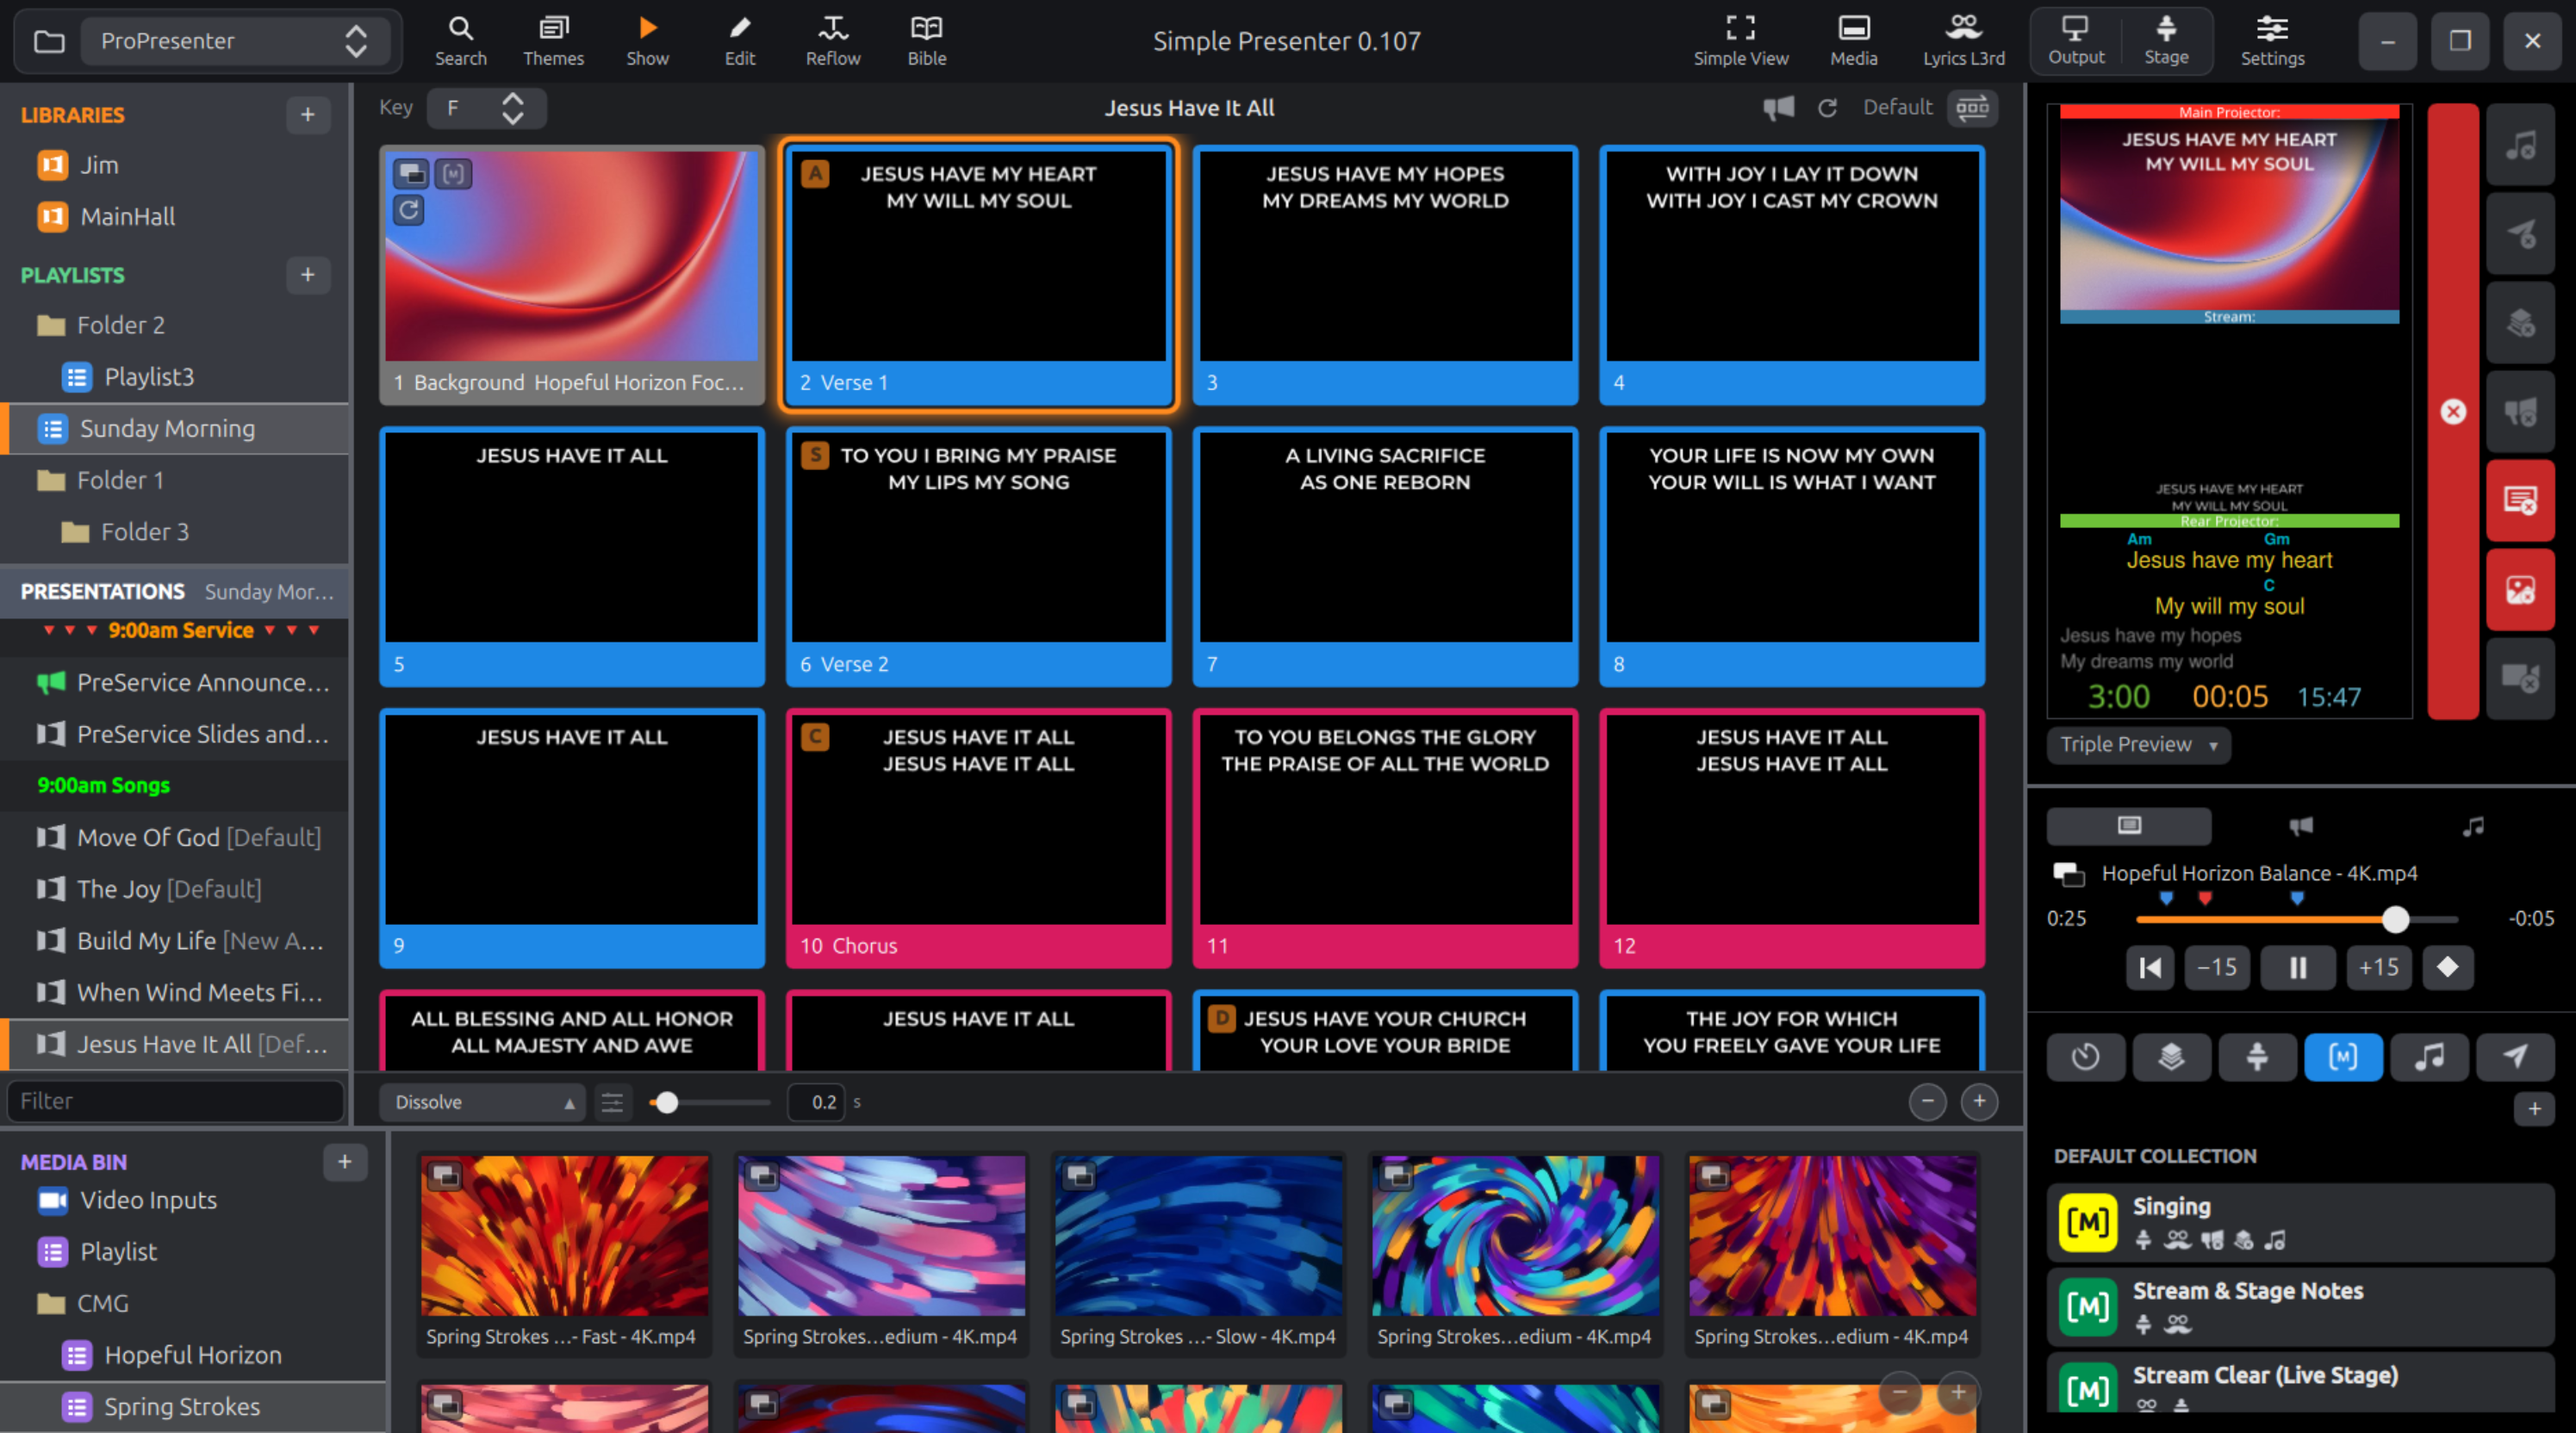
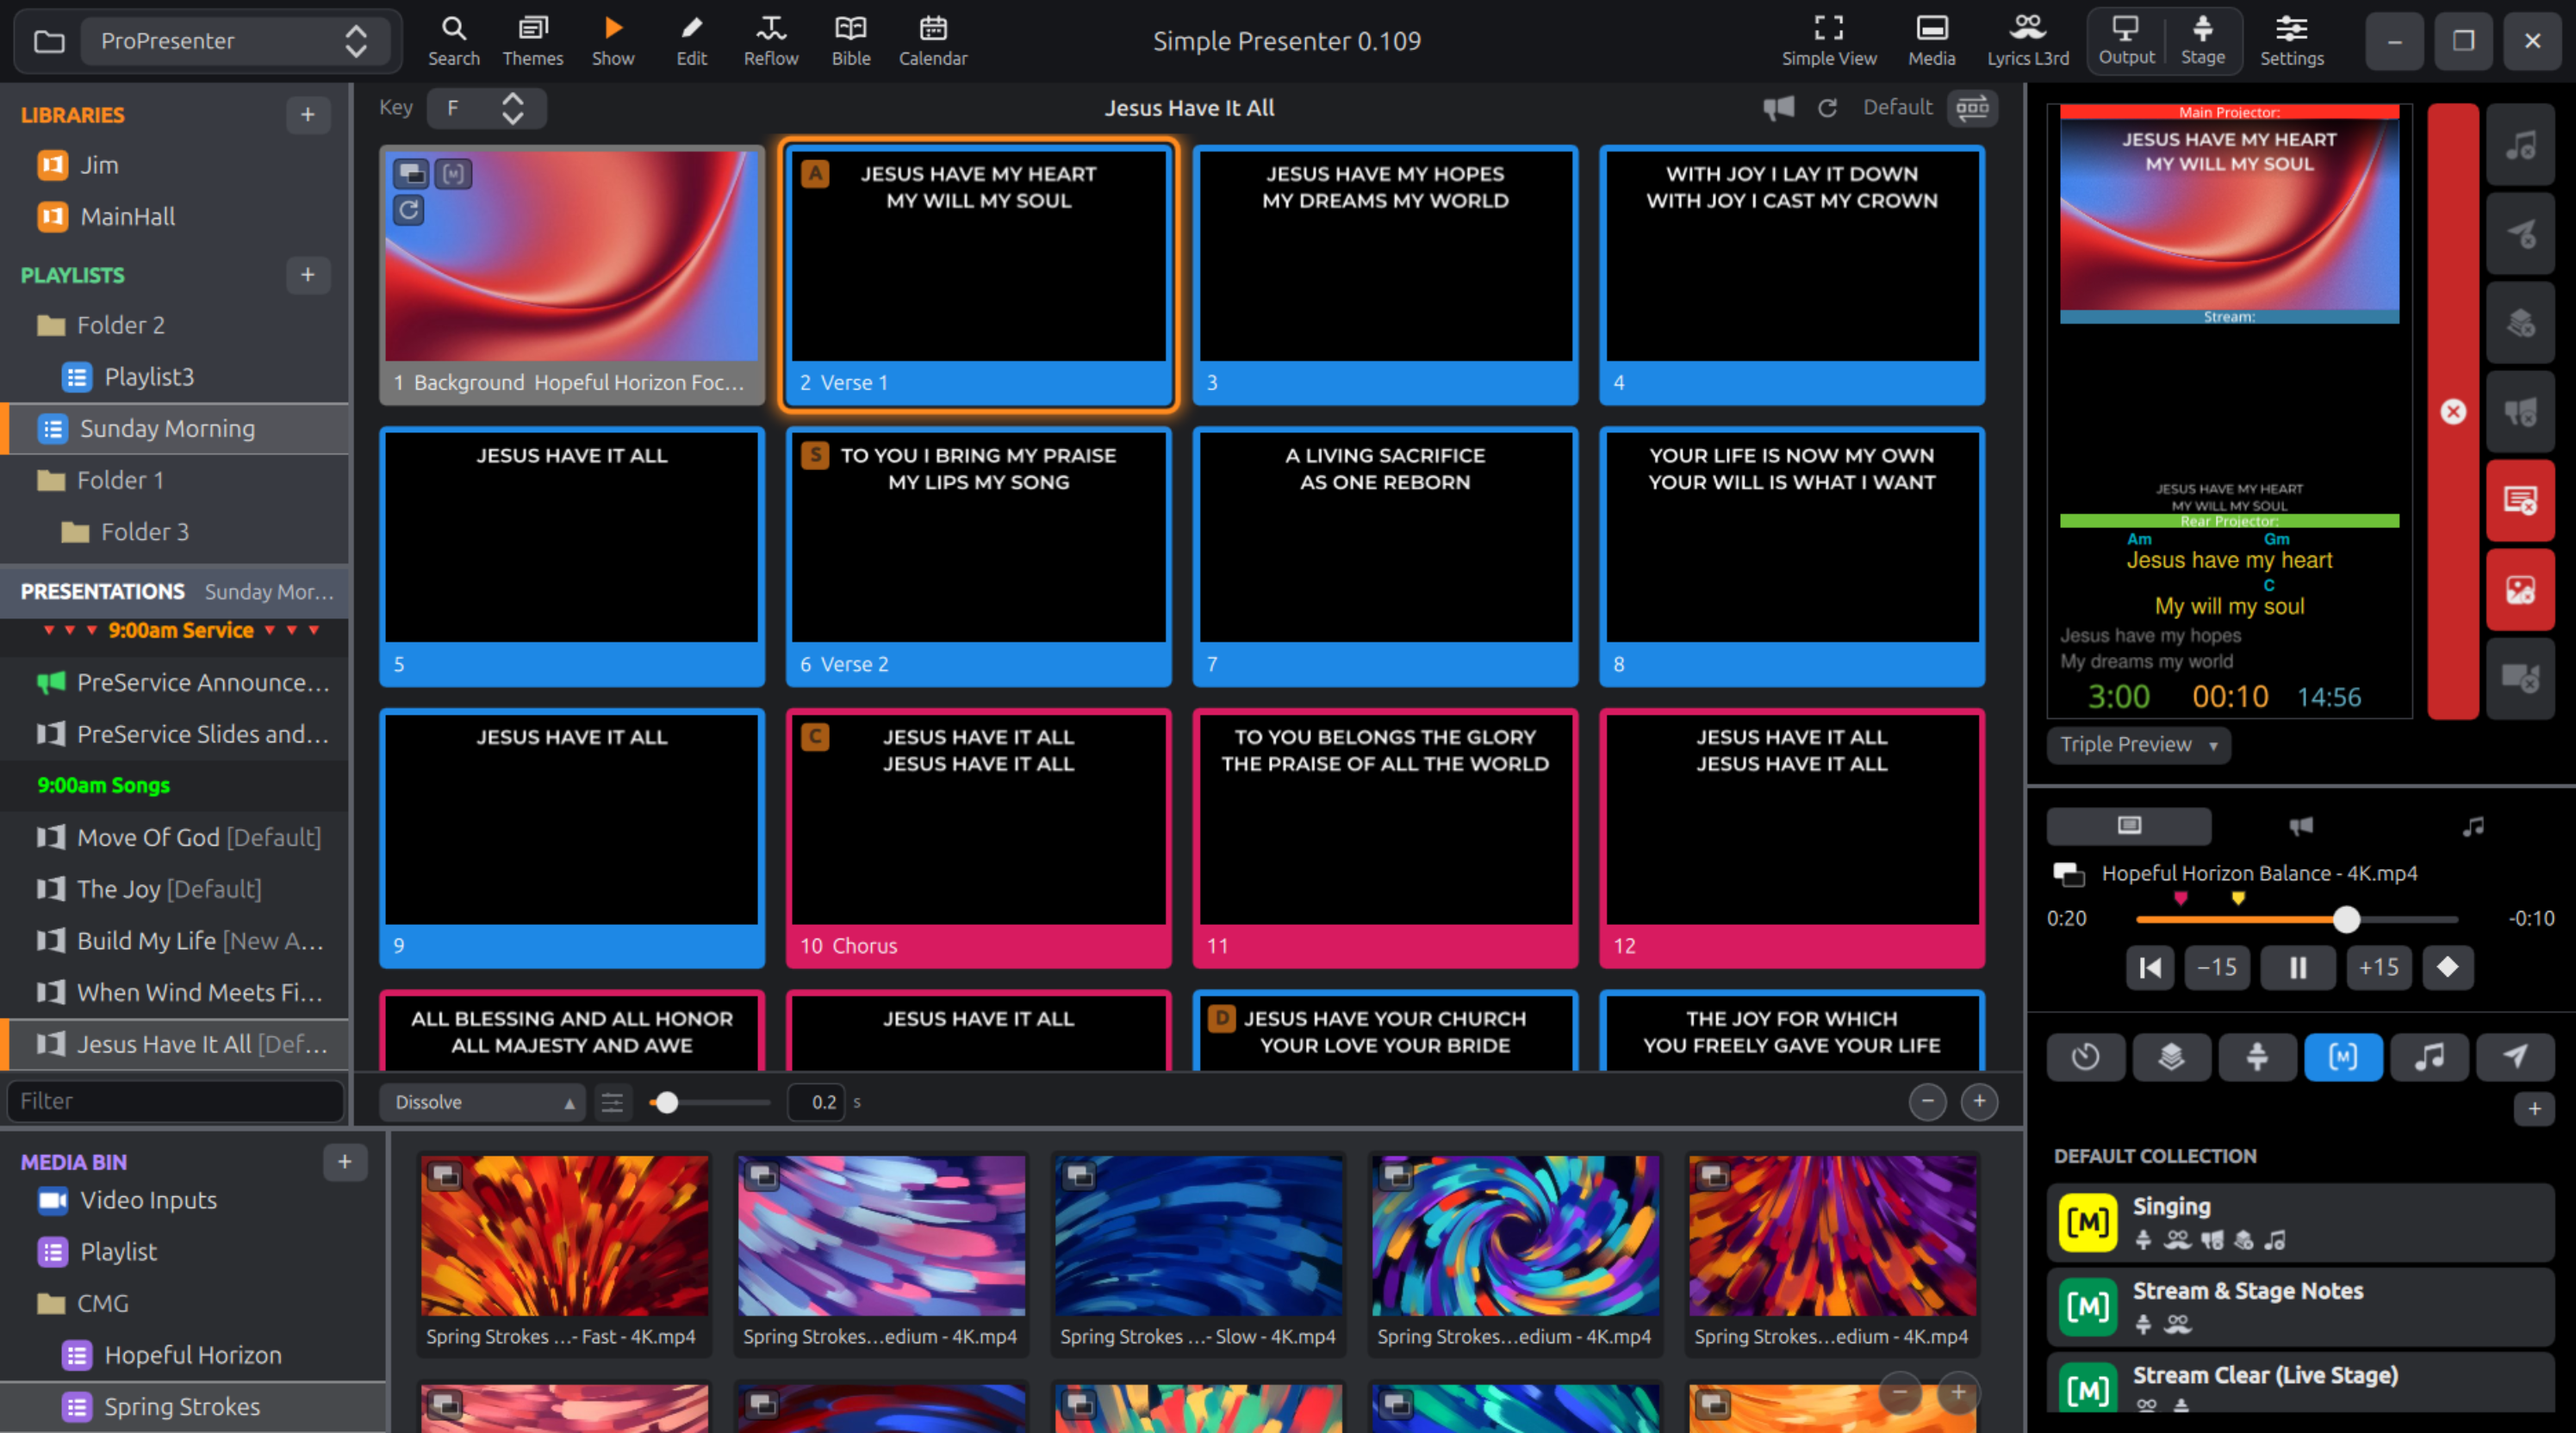
The README's screenshot taken again
The operator window as it is now, with the Calendar's button in the
toolbar; its description says so.

diff --git a/README.md b/README.md
@@ -12,7 +12,7 @@ files.** It can run:
 > **not a product for use.** Nobody supports it, it comes with no warranty, and it has nothing to do with Renewed
 > Vision. It changes the files it opens: give it a copy of your ProPresenter folder, never your only one.
 
-![The Simple Presenter operator window: a toolbar across the top, with the workspace picker and the Search, Themes, Show, Edit, Reflow and Bible buttons at its left and the buttons for Simple View, the media bin, the look that is live, the output and stage screens and the settings at its right; libraries and playlists at the top left, in their folders, with the selected playlist's presentations below them under its headers, one of them sent to the announcements and marked with a green megaphone; in the middle a line with the key the chords are shown in, a note of what was last done, the name of the presentation, the megaphone, the Slide Show button and the arrangement, over a grid of a song's slides, framed in their group colours, some marked with the hotkey that goes to them or with icons for the media and the actions they bring, and the live one ringed in orange, with the transition and the size of the thumbnails in a bar under them and the media bin under that, its Video Inputs first in its list; and down the right the preview, here of a stage screen whose layout is three Screen Previews one over another (the main projector, the stream and the rear projector with the chords) over the stage's clocks, with the name of that screen under it; beside the preview two columns of clear buttons, the tall one of the Clear All group and the layers' pictures, those with something to clear in red; under it the three tabs over the transport, the media's picked, and the transport for the video that is playing, its playback markers small flags over its bar; and the show controls on their tab of macros, each macro with its coloured icon and small icons for its actions](docs/screenshot.png)
+![The Simple Presenter operator window: a toolbar across the top, with the workspace picker and the Search, Themes, Show, Edit, Reflow, Bible and Calendar buttons at its left and the buttons for Simple View, the media bin, the look that is live, the output and stage screens and the settings at its right; libraries and playlists at the top left, in their folders, with the selected playlist's presentations below them under its headers, one of them sent to the announcements and marked with a green megaphone; in the middle a line with the key the chords are shown in, a note of what was last done, the name of the presentation, the megaphone, the Slide Show button and the arrangement, over a grid of a song's slides, framed in their group colours, some marked with the hotkey that goes to them or with icons for the media and the actions they bring, and the live one ringed in orange, with the transition and the size of the thumbnails in a bar under them and the media bin under that, its Video Inputs first in its list; and down the right the preview, here of a stage screen whose layout is three Screen Previews one over another (the main projector, the stream and the rear projector with the chords) over the stage's clocks, with the name of that screen under it; beside the preview two columns of clear buttons, the tall one of the Clear All group and the layers' pictures, those with something to clear in red; under it the three tabs over the transport, the media's picked, and the transport for the video that is playing, its playback markers small flags over its bar; and the show controls on their tab of macros, each macro with its coloured icon and small icons for its actions](docs/screenshot.png)
 
 Copy a whole ProPresenter workspace onto a Linux computer and it is all there, in a window
 that anyone who has used ProPresenter will know their way around: the libraries and
